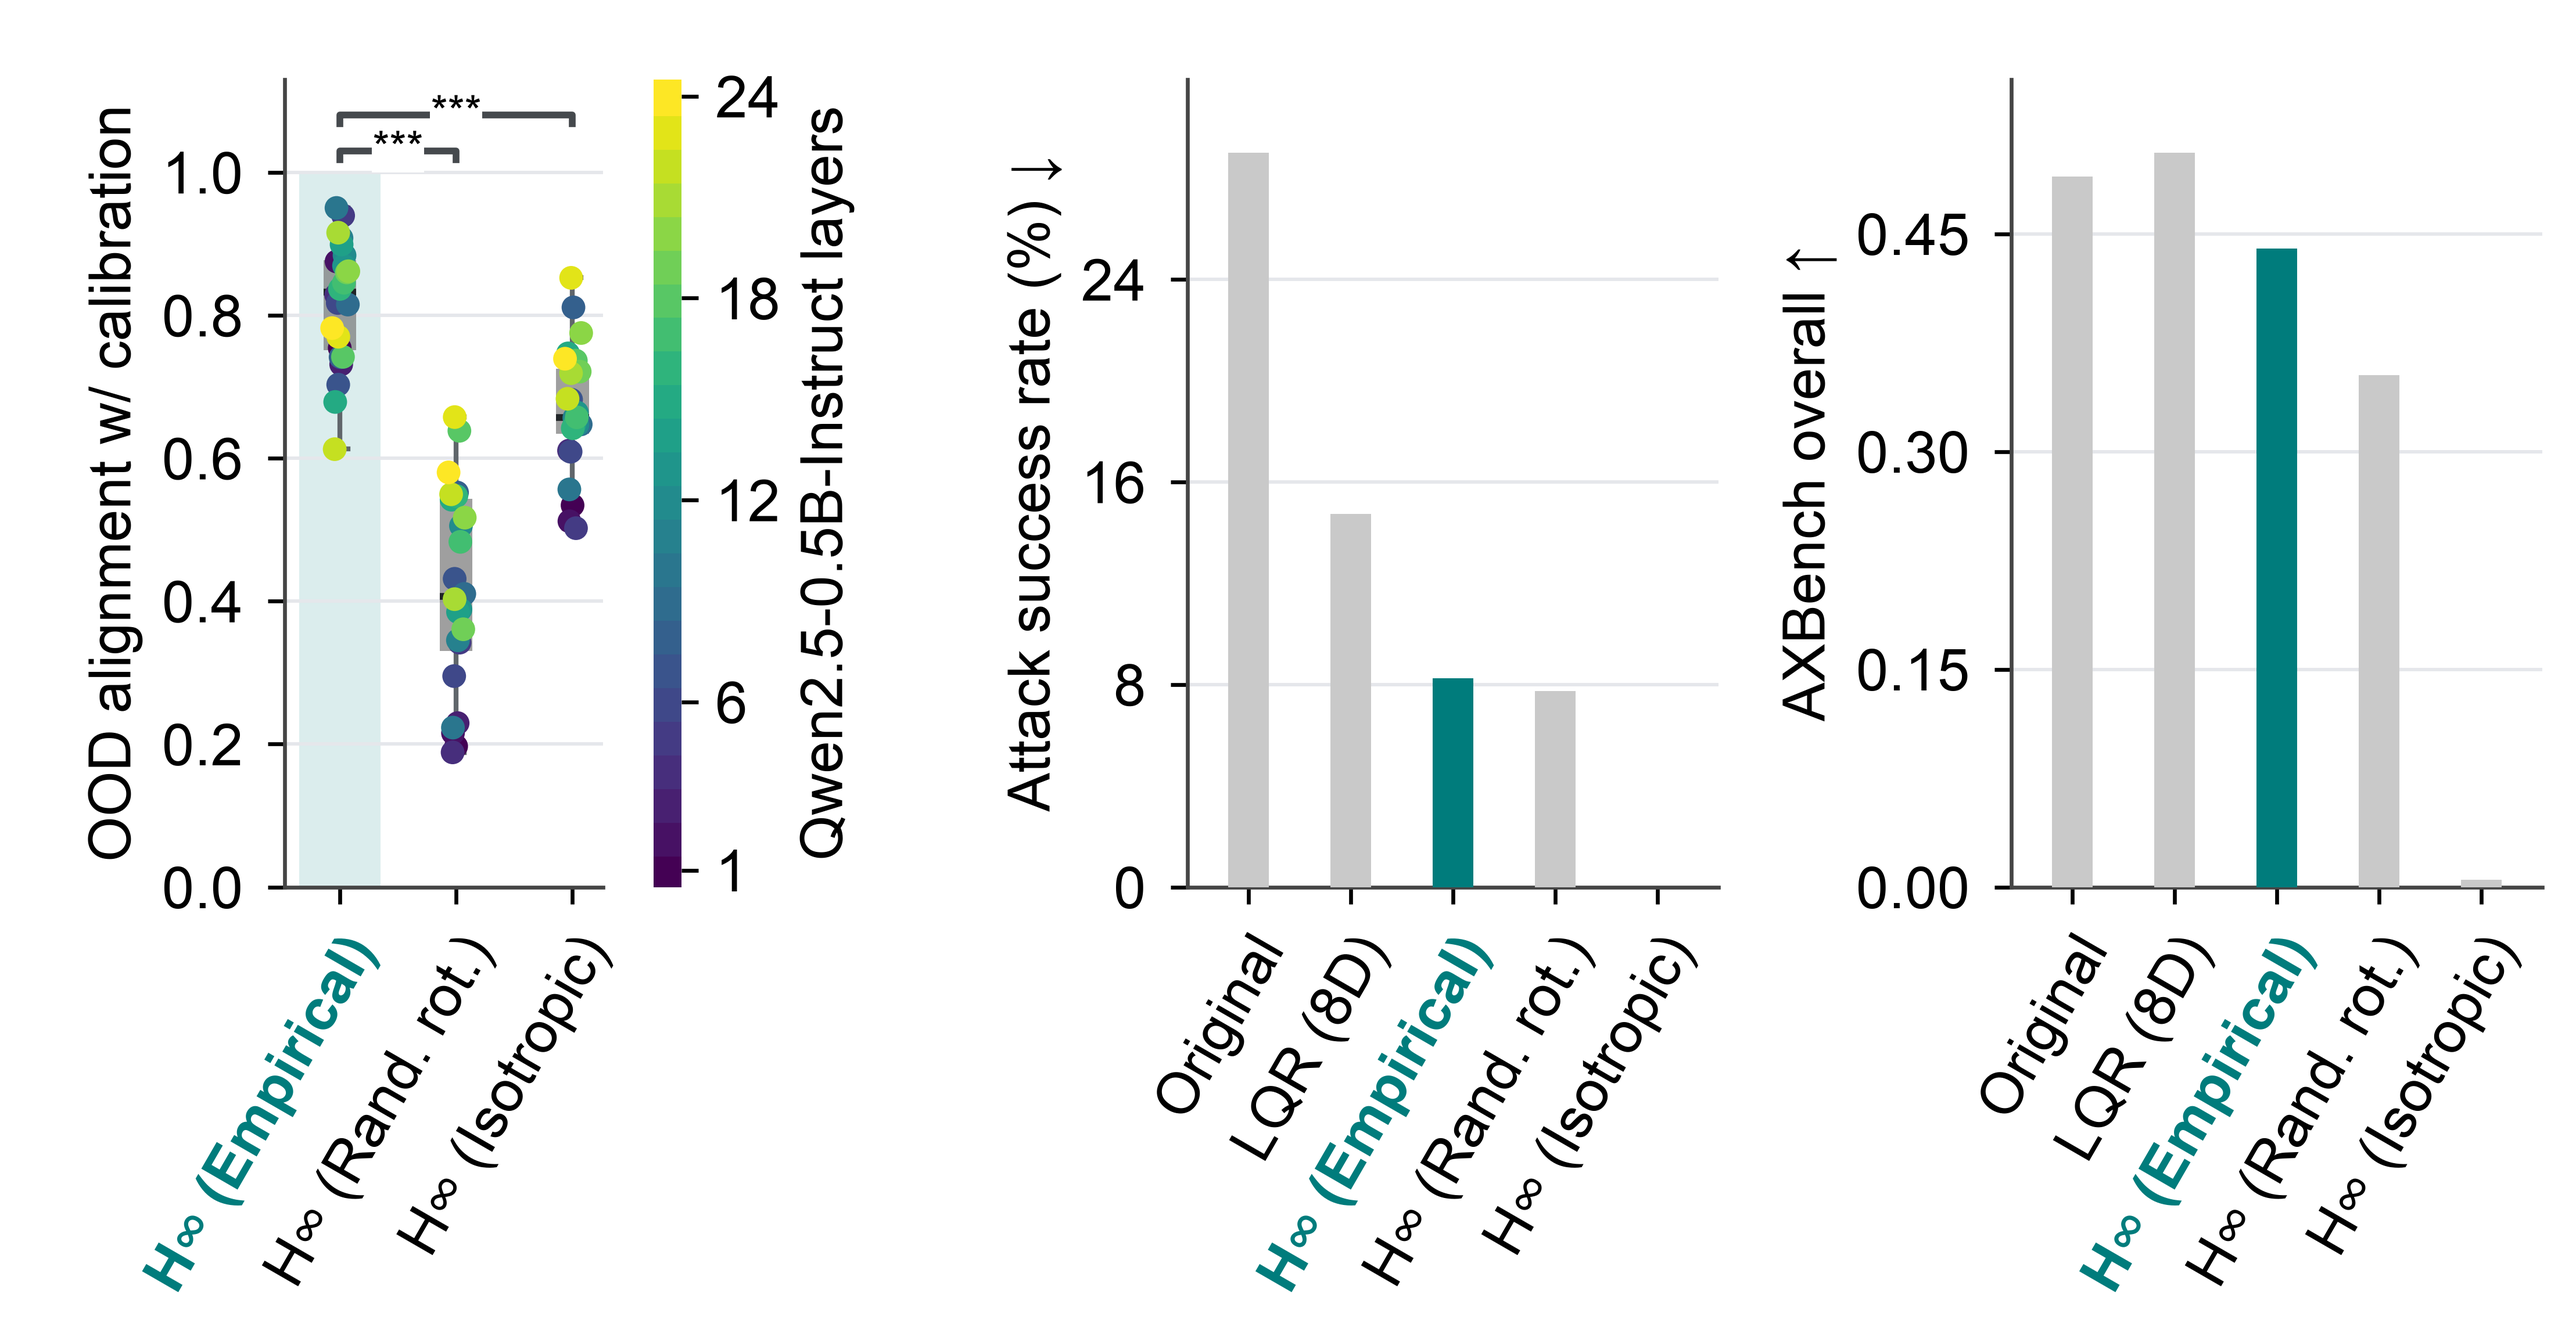
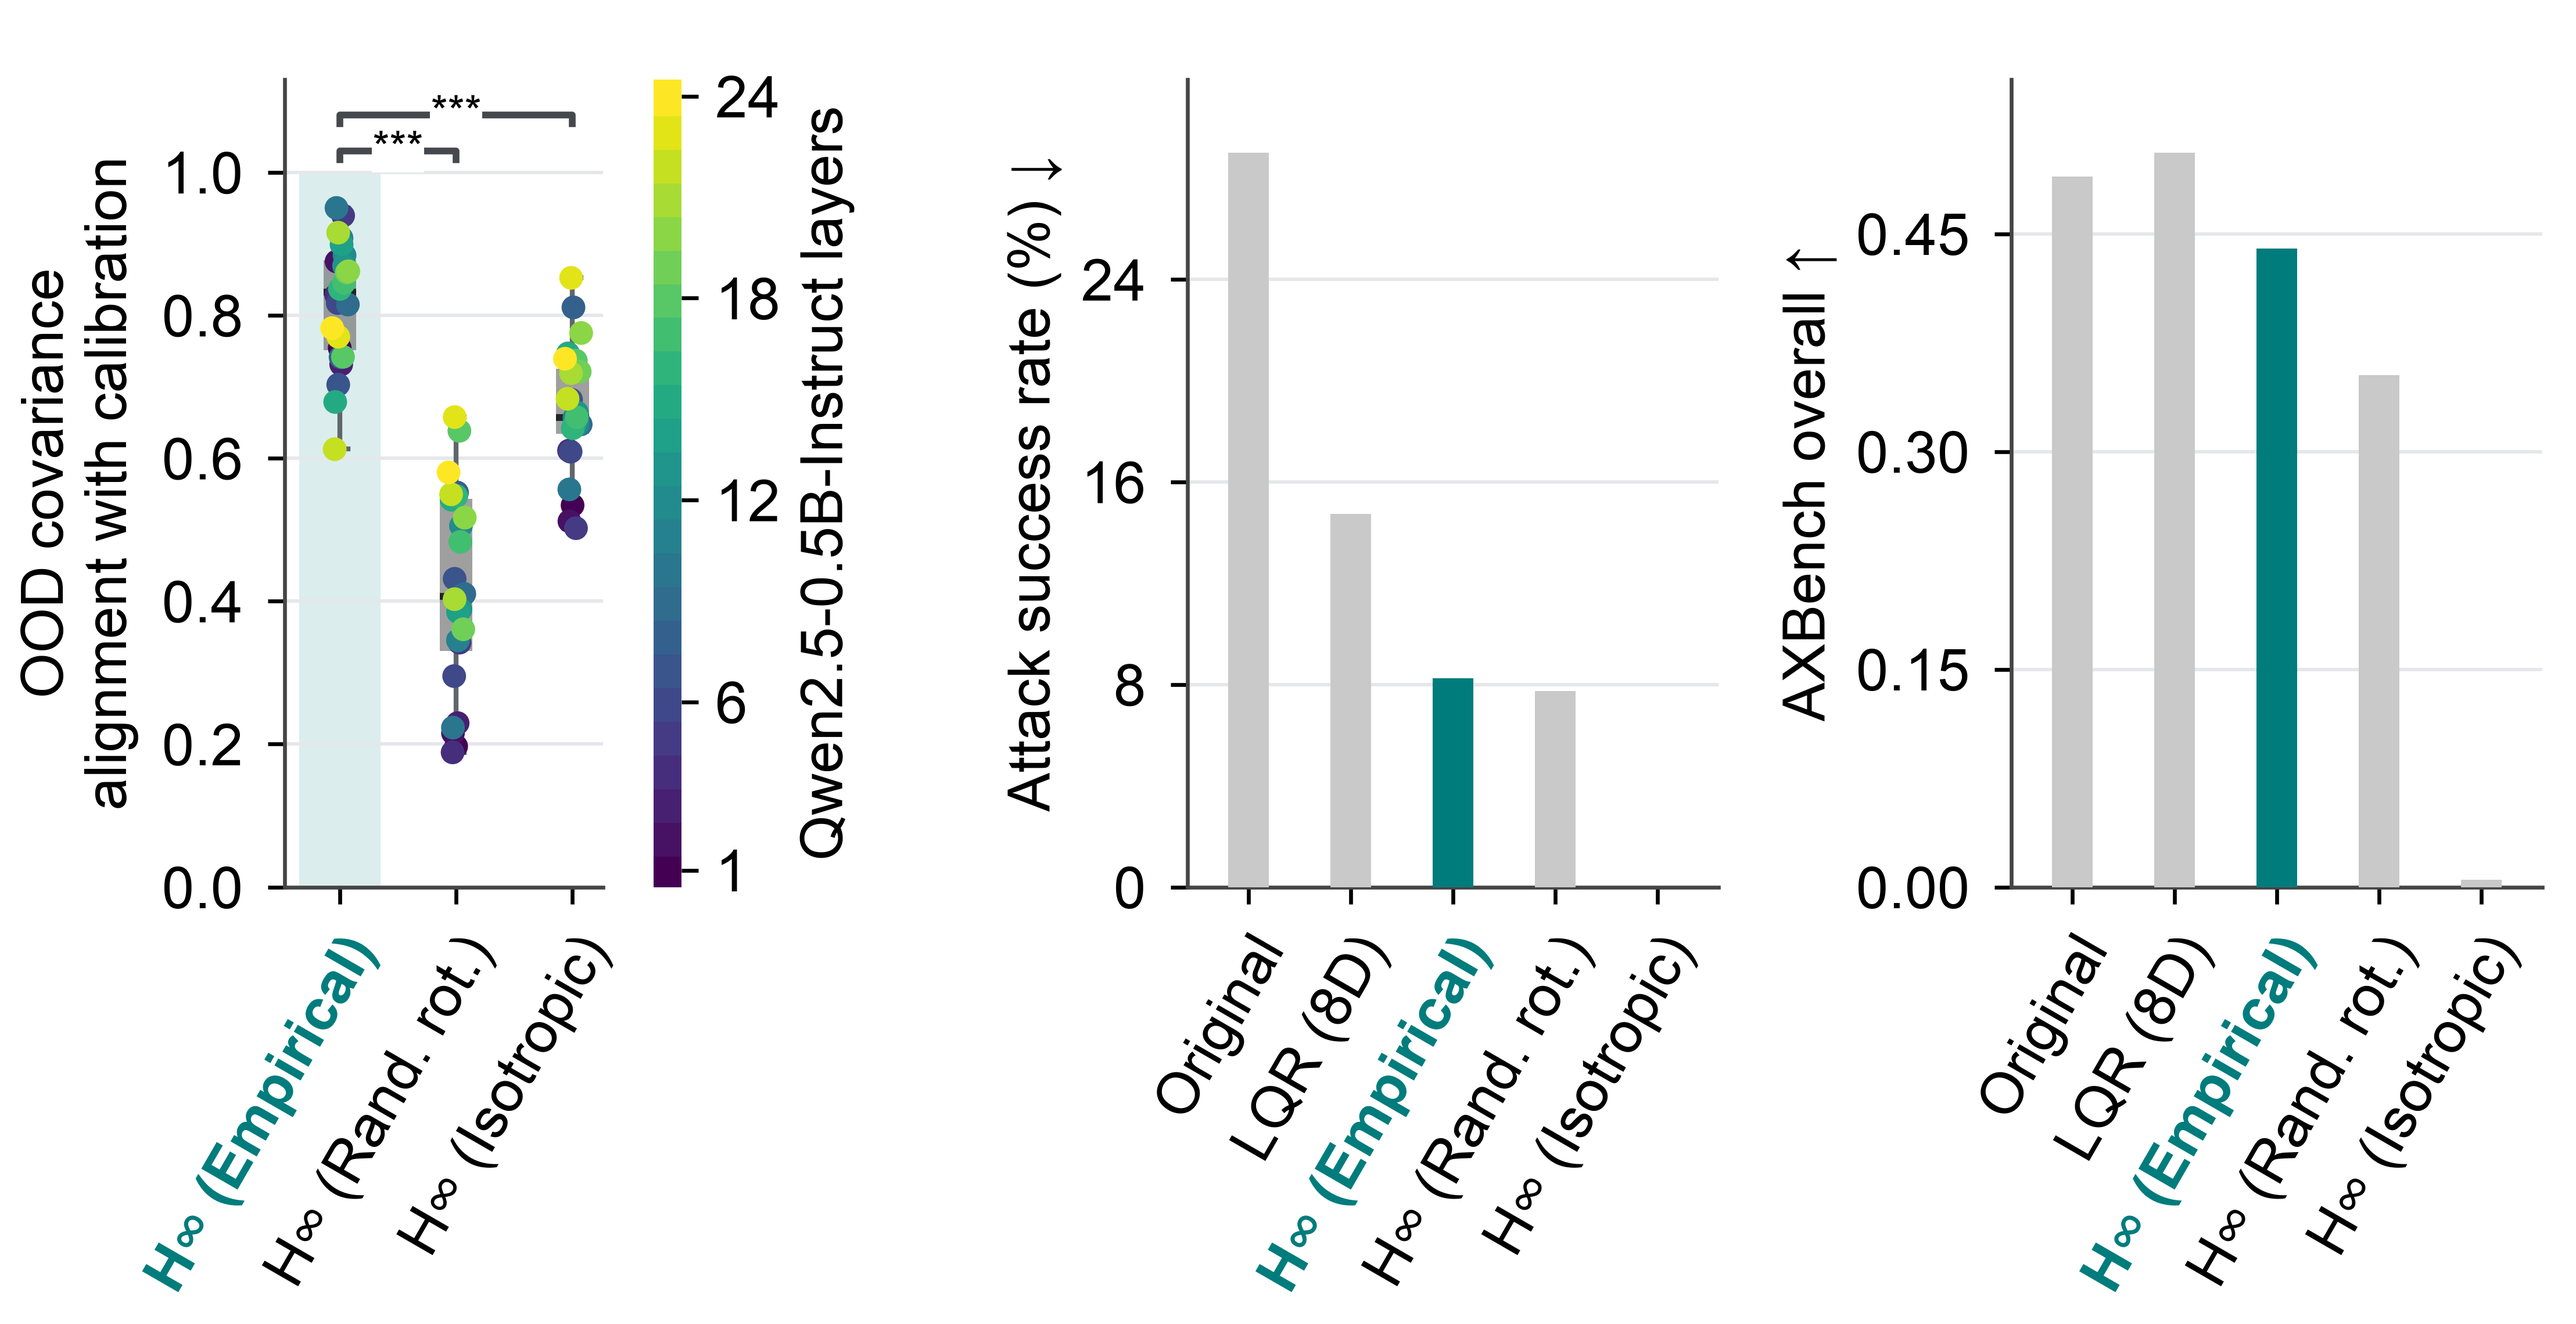
style: clarify covariance alignment axis label

Changed region(s): [[0.0, 0.0934, 0.0622, 0.6539]]

diff --git a/parking/rudra_rebuttal_residual_geometry/geometry_final.py b/parking/rudra_rebuttal_residual_geometry/geometry_final.py
@@ -37,7 +37,7 @@ def draw_alignment(fig, ax, colorbar_axis):
         dots = ax.scatter(position + jitter, points, c=layers, cmap=cmap, norm=norm,
                           s=24, edgecolors='none', linewidths=0, zorder=3)
     ax.set(xticks=np.arange(3), xticklabels=LABELS[2:],
-           ylabel='OOD alignment w/ calibration', ylim=(0, 1.13))
+           ylabel='OOD covariance\nalignment with calibration', ylim=(0, 1.13))
     ax.set_yticks(np.linspace(0, 1, 6))
     for endpoint, y, alternative in zip((1, 2), (1.03, 1.08), variants[1:], strict=True):
         ax.plot([0, 0, endpoint, endpoint], [y - .012, y, y, y - .012],
